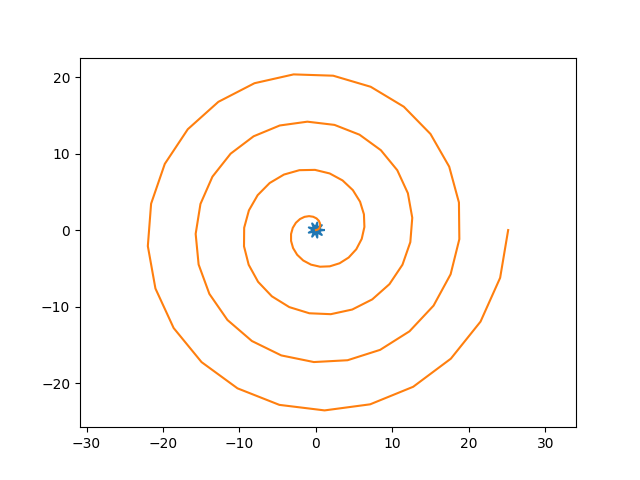
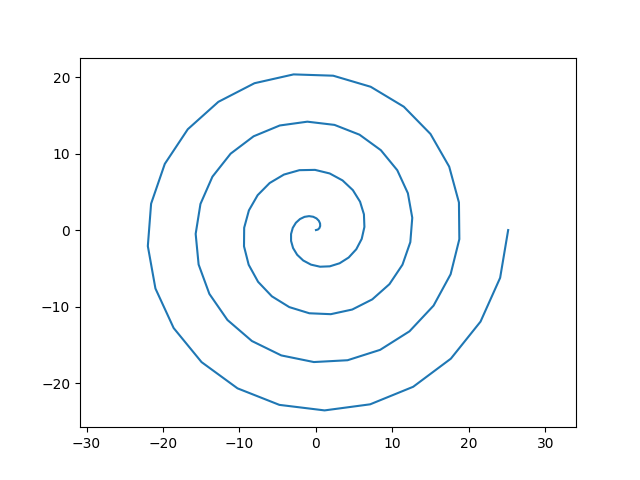
дз

diff --git a/task4_rosa.py b/task4_rosa.py
@@ -1,0 +1,26 @@
+import matplotlib.pyplot as plt
+import numpy as np
+
+def rosa (k = 3):
+    f = np.linspace(0, 10*np.pi, 500)
+    r = np.sin(k * f)
+    x = r * np.cos(f)
+    y = r * np.sin(f)
+    plt.plot(x,y)
+    plt.axis('equal')
+    plt.savefig('task4_rosa.png')
+
+'''
+def rosa2 (k = 0.5):
+    f = np.linspace(0, 10*np.pi, 500)
+    r = np.sin(k * f)
+    x = r * np.cos(f)
+    y = r * np.sin(f)
+    plt.plot(x,y)
+    plt.axis('equal')
+    plt.savefig('task4_rosa.png')
+'''
+
+if __name__ == "__main__": 
+    #rosa2()
+    rosa()

diff --git a/task1_dop.py b/task1_dop.py
@@ -1,0 +1,14 @@
+import matplotlib.pyplot as plt
+import numpy as np
+
+def lissaju (bet = np.pi/2, a =1, A = 1, B = 1, b = 1):
+    t = np.linspace(0, 50, 50)
+    x = A * np.sin(a * t + bet)
+    y = B * np.sin(b * t)
+    plt.plot(x,y)
+    plt.axis('equal')
+    plt.savefig('task1_dop.png')
+
+
+if __name__ == "__main__":
+    lissaju()

diff --git a/task4_spiral.py b/task4_spiral.py
@@ -1,0 +1,15 @@
+import matplotlib.pyplot as plt
+import numpy as np
+
+def spiral (a=1, b=0.2):
+    f = np.linspace(0, 10*np.pi, 500)
+    r = a * np.exp(b * f)
+    x = r * np.cos(f)
+    y = r * np.sin(f)
+    plt.plot(x,y)
+    plt.axis('equal')
+    plt.savefig('task4_spiral.png')
+
+
+if __name__ == "__main__":
+    spiral()

diff --git a/task4_arhspiral.py b/task4_arhspiral.py
@@ -1,0 +1,16 @@
+import matplotlib.pyplot as plt
+import numpy as np
+
+def arhspiral (a = 1):
+    f = np.linspace(0, 8*np.pi, 100)
+    r = a * f
+    x = r * np.cos(f)
+    y = r * np.sin(f)
+    plt.plot(x,y)
+    plt.axis('equal')
+    plt.savefig('task4_arhspiral.png')
+
+
+
+if __name__ == '__main__':
+    arhspiral()

diff --git a/task4_gesl.py b/task4_gesl.py
@@ -1,0 +1,15 @@
+import matplotlib.pyplot as plt
+import numpy as np
+
+def gesl (a = 1):
+    f = np.linspace(0, 100, 100)
+    r = a / (f**0.5)
+    x = r * np.cos(f)
+    y = r * np.sin(f)
+    plt.plot(x,y)
+    plt.axis('equal')
+    plt.savefig('task4_gesl.png')
+
+if __name__ == '__main__':
+    gesl()
+
